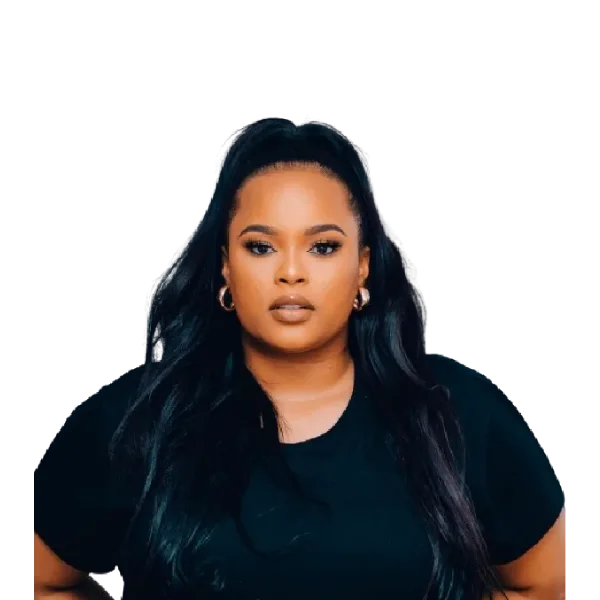
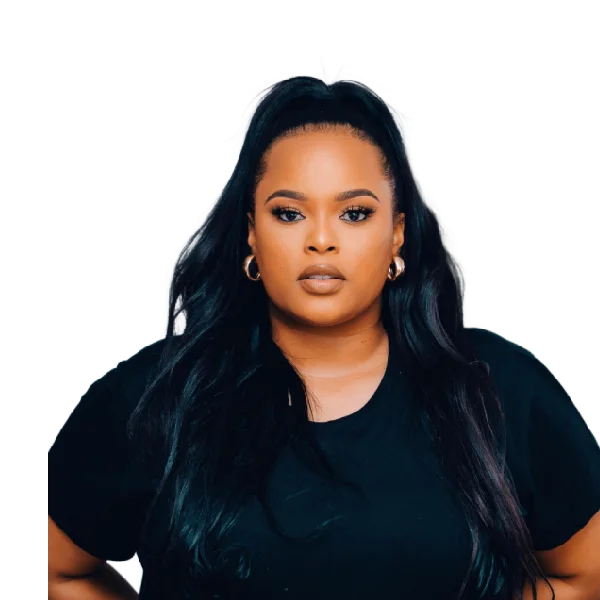
Update artist page layout, styles, and images

diff --git a/artists.ts b/artists.ts
@@ -33,7 +33,7 @@ const artists = [
 		name: "The Black Wendy",
 		slug: "wendy",
 		img: "/images/talent/sq/black_wendy_sq.webp",
-		image: "/images/talent/wendy.png",
+		image: "/images/talent/sq/black_wendy_sq.webp",
 		description:
 			"The face and voice of Dark & Lovely’s Relaxed Hair Maintenance Range, Wendy Gumede is a screenwriter and actress by profession. Known as “The Black Wendy” to many; she has worked on award-winning local blockbuster shows like Isibaya and Scandal. She is currently a screenwriter for Netflix original shows and has also served as the voice of the popular music channel TRACE. On the social media front, Wendy has had the privilege of collaborating on campaigns with some of the most reputable brands in the country; Standard Bank, Clarins, Takealot and Comedy Central to highlight a few.",
 		socials: {
@@ -64,7 +64,7 @@ const artists = [
 		name: "Jack Devero",
 		slug: "jack",
 		img: "/images/talent/sq/jack_sq.webp",
-		image: "/images/talent/jack_2.webp",
+		image: "/images/talent/sq/jack_sq.webp",
 		description:
 			"Being in love with music his whole life, Jack Devero joined the entertainment scene back in 2004 when he became part of the Vow FM team at Wits University. He later founded Pink Diamond Productions and Lexhosanostra and started Deejaying at these events. He has since Deejayed and made scores of people across the country dance. Whether it is Hip Hop, R&B or Old Skool Kwaito and House, he will have your guests dancing. It is a passion of his and something he is good at. Let him curate a feel-good environment at your next event.",
 		socials: {
@@ -79,7 +79,7 @@ const artists = [
 		name: "Ntosh Madlingozi",
 		slug: "ntosh",
 		img: "/images/talent/sq/ntosh_sq.webp",
-		image: "/images/talent/ntosh.webp",
+		image: "/images/talent/sq/ntosh_sq.webp",
 		description:
 			"Ntosh Madlingozi is a comedian and actor with an 19-year career across standup comedy, television, radio, cinema and corporate MC work. From a memorable open mic stand up debut at what was 88 Club in Norwood, in 2004, he has carved out a sustainable career based on versatility and an obsessive interest in the human condition. Over the years Ntosh has featured, to great acclaim, in theatre shows. From Blacks Only, Heavyweight Comedy Jam, 99% Xhosa Comedy Festival, Cape Town International Comedy Festival, to the DSTV Comedy Festival. Sharing stages with the likes of Chris Forrest, John Vlismas, Trevor Noah, Tom Stade (Canada), Dwayne Perkins (U.S.A), Loyiso Gola and Kagiso Lediga among others.",
 		socials: {

diff --git a/app/artists/[slug]/page.tsx b/app/artists/[slug]/page.tsx
@@ -17,7 +17,7 @@ const ArtistPage = ({params:{slug}}:{params:{slug:string}}) => {
 						"linear-gradient(180deg, #000000 0%, #000000 100%)"
 					}`,
 				}}
-				className="flex items-center overflow-hidden"
+				className="flex items-center overflow-hidden lg:h-screen"
 			>
 				<div
 					className={cn(
@@ -26,10 +26,18 @@ const ArtistPage = ({params:{slug}}:{params:{slug:string}}) => {
 				>
 					<Image
 						src={artist?.image || ""}
-						width={579}
-						height={788}
+						width={500}
+						height={500}
 						alt={artist?.name || ""}
-						className={artist?.slug === 'si-jones' ? "w-[58vh] mx-auto object-cover" : "w-[63vh] mx-auto object-cover rounded-lg"}
+						className={cn(
+							"aspect-sqaure mx-auto object-cover w-[85vh]",
+							artist?.slug === "si-jones"
+								? "w-[80vh] md:w-[55vh] mx-auto object-cover"
+								: "",
+							artist?.slug === "jack" ? "w-[85vh]" : "",
+              artist?.slug === "ntosh" ? "w-[80vh]" : "",
+              artist?.slug === "benjamin" ? "w-[85vh]" : "",
+						)}
 					/>
 					<div className="flex flex-col justify-center h-full">
 						<h1
@@ -42,7 +50,9 @@ const ArtistPage = ({params:{slug}}:{params:{slug:string}}) => {
 						</h1>
 						<p className="mt-4 text-white text-md">
 							{artist?.description}{" "}
-							<a href={`${artist?.website}`}>{` ${artist?.website}`}</a>
+							{artist?.website ? (
+								<Link href={`${artist?.website}`}>{` ${artist?.website}`}</Link>
+							) : null}
 						</p>
 						<Link
 							href="/contact"

diff --git a/app/artists/page.tsx b/app/artists/page.tsx
@@ -70,7 +70,6 @@ const Artists = () => {
 									style={{
 										width: `${100 / (numArtists - 1)}%`,
 										left: `${100 / numArtists - 1 + 2}%`,
-										// zIndex: index === 5 || index === 2 ? 0 : 10,
 									}}
 								>
 									<Link
